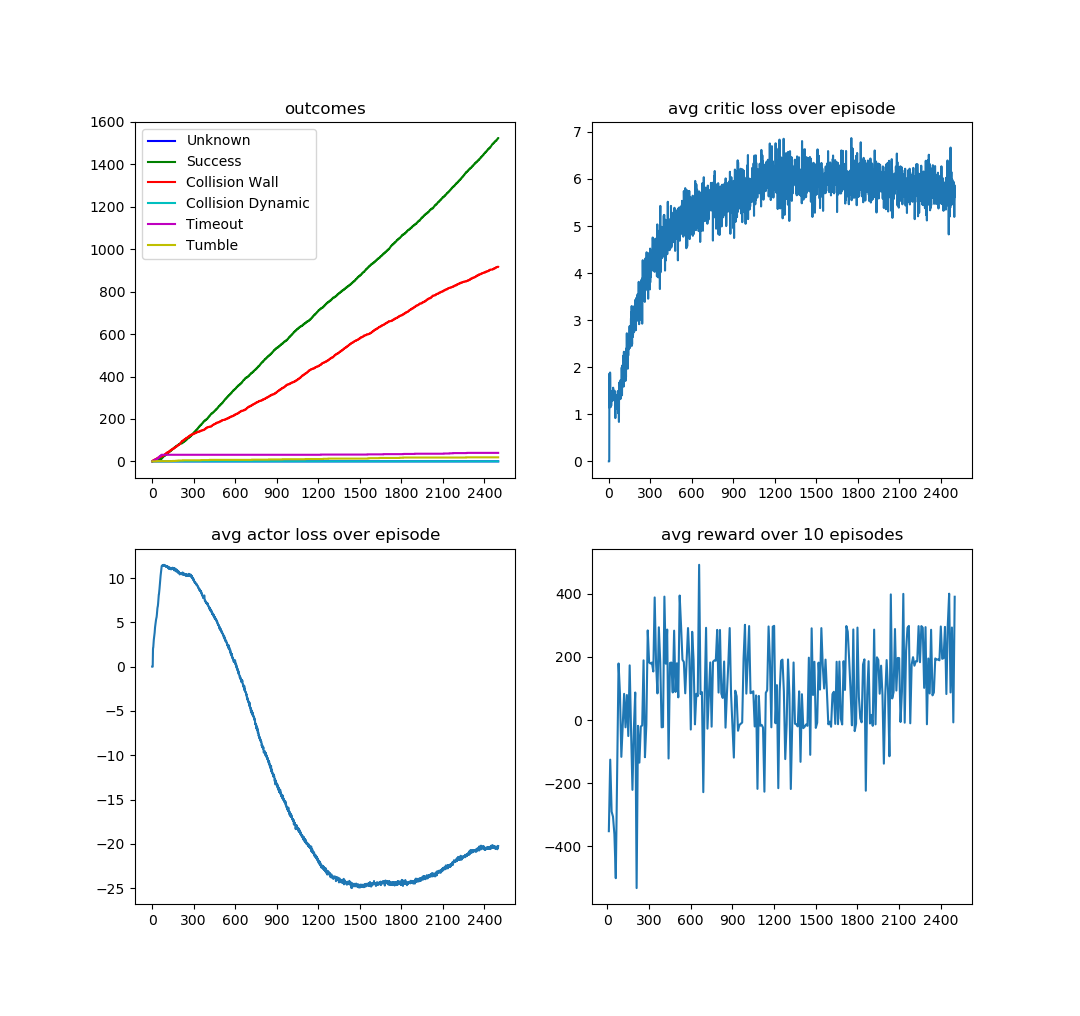
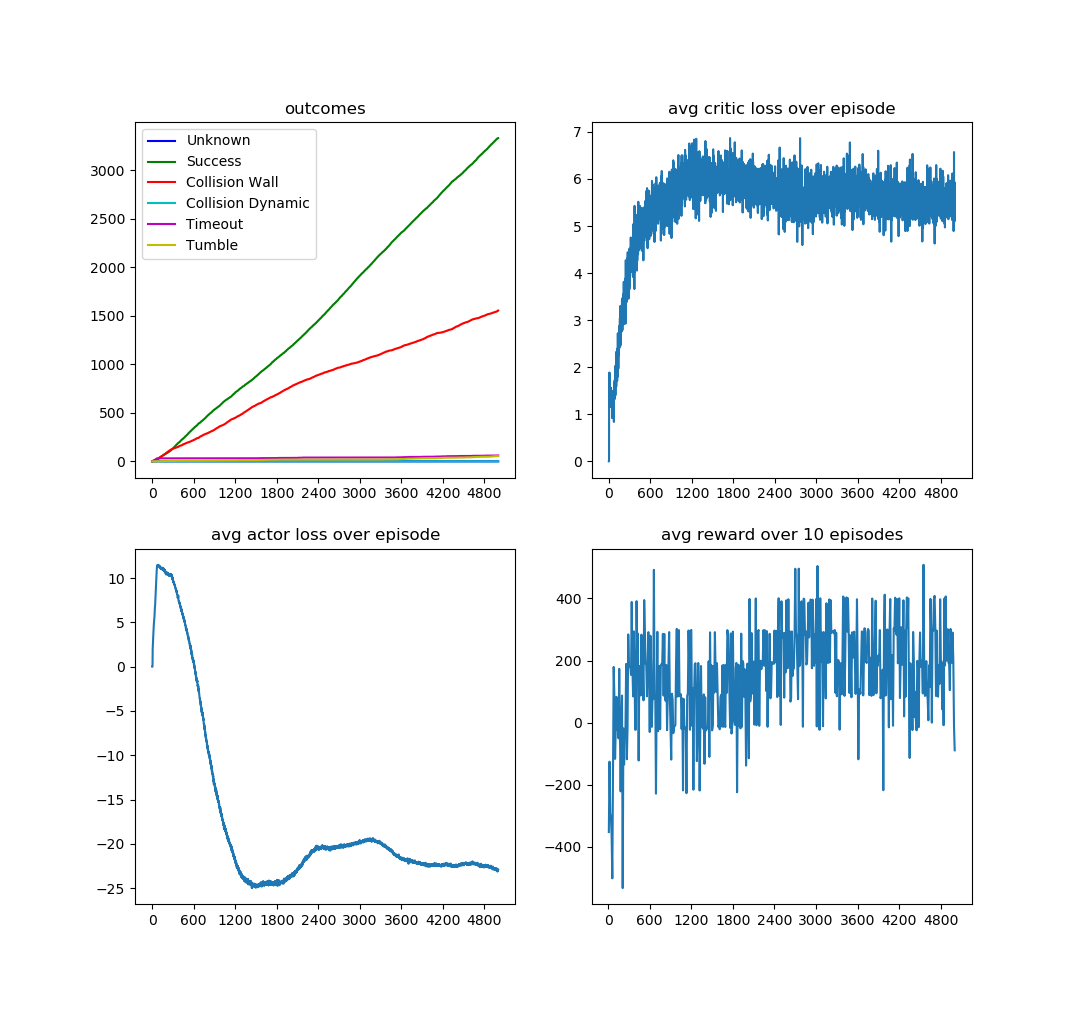
update_test_process

diff --git a/src/turtlebot3_drl/turtlebot3_drl/drl_gazebo/drl_gazebo.py b/src/turtlebot3_drl/turtlebot3_drl/drl_gazebo/drl_gazebo.py
@@ -21,6 +21,7 @@ import random
 import math
 import numpy
 import time
+import sys
 
 from gazebo_msgs.srv import DeleteEntity, SpawnEntity
 from std_srvs.srv import Empty
@@ -37,7 +38,7 @@ from ..common.settings import ENABLE_TRUE_RANDOM_GOALS
 
 NO_GOAL_SPAWN_MARGIN = 0.3 # meters away from any wall
 class DRLGazebo(Node):
-    def __init__(self):
+    def __init__(self, train):
         super().__init__('drl_gazebo')
 
         """************************************************************
@@ -50,6 +51,7 @@ class DRLGazebo(Node):
         self.entity_path = os.path.join(self.entity_dir_path, 'model.sdf')
         self.entity = open(self.entity_path, 'r').read()
         self.entity_name = 'goal'
+        self.train = train
 
         with open(os.getenv('DRLNAV_BASE_PATH') + '/tmp/drlnav_current_stage.txt', 'r') as f:
             self.stage = int(f.read())
@@ -185,7 +187,11 @@ class DRLGazebo(Node):
         self.prev_x = self.goal_x
         self.prev_y = self.goal_y
         tries = 0
-        self.goal_x , self.goal_y = self.random_goals()
+        if self.train:
+            self.goal_x , self.goal_y = self.random_goals()
+        else:
+            self.goal_x = random.randrange(-65, 65) / 10.0
+            self.goal_y = random.randrange(-65, 65) / 10.0
         while not self.goal_is_valid(self.goal_x, self.goal_y):
             self.goal_x , self.goal_y = self.random_goals()
         tries += 1
@@ -312,13 +318,26 @@ class DRLGazebo(Node):
         return obstacle_coordinates
 
 
-def main():
+def main(args=sys.argv[1:]):
     rclpy.init()
-    drl_gazebo = DRLGazebo()
+    if args[0] == "1":
+        train = True
+    elif args[0] == "0":
+        train = False
+    drl_gazebo = DRLGazebo(train)
     rclpy.spin(drl_gazebo)
 
     drl_gazebo.destroy()
     rclpy.shutdown()
+
+def main_test(args=sys.argv[1:]):
+    args = ['0'] + args
+    main(args)
+
+def main_train(args=sys.argv[1:]):
+    args = ['1'] + args
+    main(args)
+
 
 if __name__ == '__main__':
     main()

diff --git a/src/turtlebot3_drl/turtlebot3_drl/drl_agent/drl_agent.py b/src/turtlebot3_drl/turtlebot3_drl/drl_agent/drl_agent.py
@@ -105,12 +105,17 @@ class DrlAgent(Node):
         if not self.real_robot:
             self.gazebo_pause = self.create_client(Empty, '/pause_physics')
             self.gazebo_unpause = self.create_client(Empty, '/unpause_physics')
-        self.process()
+        if self.training:
+            episode_num = 2000
+        else:
+            episode_num = 100
+        self.process(episode_num)
 
 
-    def process(self):
+    def process(self, episode_num):
         util.pause_simulation(self, self.real_robot)
-        while (True):
+        episode = 0
+        while episode < episode_num:
             util.wait_new_goal(self)
             episode_done = False
             step, reward_sum, loss_critic, loss_actor = 0, 0, 0, 0
@@ -171,6 +176,7 @@ class DrlAgent(Node):
             duration = time.perf_counter() - episode_start
 
             self.finish_episode(step, duration, outcome, distance_traveled, reward_sum, loss_critic, loss_actor)
+            episode += 1
 
     def finish_episode(self, step, eps_duration, outcome, dist_traveled, reward_sum, loss_critic, lost_actor):
             if self.total_steps < self.observe_steps:

diff --git a/test.py b/test.py
@@ -1,0 +1,30 @@
+import numpy as np
+
+# del_num = real_scan.shape[0] - 360
+# gap = real_scan.shape[0]//del_num
+
+# del_index = real_scan[np.arange(0,real_scan.shape[0],gap+1)]
+# print("left num", real_scan.shape[0] - del_index.shape[0])
+# del_1 = np.delete(real_scan, del_index)
+# del_num_2 = del_1.shape[0] - 360
+# del_index_2 = np.arange(0, del_1.shape[0])[np.random.randint(0, del_1.shape[0], del_num_2)]
+# outcomt = np.delete(del_1, del_index_2)
+# print(outcomt.shape[0])
+
+
+def filter_scan(real_scan):
+    length = real_scan.shape[0]
+    while length != 360:
+        del_num = length - 360
+        gap = length//del_num + 1
+        del_index = np.arange(0, length, gap)
+        outcome = np.delete(real_scan, del_index)
+        length = outcome.shape[0]
+        real_scan = outcome
+    return outcome
+
+for i in range(100):
+    real_scan = np.arange(0,np.random.randint(370,580))
+    outcome = filter_scan(real_scan)
+    if outcome.shape[0] != 360:
+        print("error", real_scan.shape[0])

diff --git a/src/turtlebot3_drl/setup.py b/src/turtlebot3_drl/setup.py
@@ -41,7 +41,8 @@ setup(
         'console_scripts': [
             'environment = turtlebot3_drl.drl_environment.drl_environment:main',
             'real_environment = turtlebot3_drl.drl_environment.drl_environment_real:main',
-            'gazebo_goals = turtlebot3_drl.drl_gazebo.drl_gazebo:main',
+            'gazebo_goals_train = turtlebot3_drl.drl_gazebo.drl_gazebo:main_train',
+            'gazebo_goals_test = turtlebot3_drl.drl_gazebo.drl_gazebo:main_test',
             'train_agent = turtlebot3_drl.drl_agent.drl_agent:main_train',
             'test_agent = turtlebot3_drl.drl_agent.drl_agent:main_test',
             'real_agent = turtlebot3_drl.drl_agent.drl_agent:main_real',

diff --git a/src/turtlebot3_drl/turtlebot3_drl/drl_environment/reward.py b/src/turtlebot3_drl/turtlebot3_drl/drl_environment/reward.py
@@ -163,7 +163,7 @@ def get_reward_D(succeed, state_tmp_list, goal_dist, goal_angle, min_obstacle_di
         r_vlinear_y = -2 * abs(vy)
         r_vlinear = r_vlinear_x + r_vlinear_y
 
-        reward = 0.1*r_yaw + 0.5*r_distance + 0.24*r_obstacle + 0.01*r_vlinear + 0.09*r_vangular + 0.01*r_acc + 0.05*r_scan
+        reward = 0.1*r_yaw + 0.5*r_distance + 0.24*r_obstacle + 0.01*r_vlinear + 0.09*r_vangular + 0.01*r_acc + 0.05*r_scan - 0.5
 
         if succeed == SUCCESS:
             reward += 500

diff --git a/util/plot_from_file.py b/util/plot_from_file.py
@@ -26,7 +26,7 @@ def main(args):
     plt.figure(figsize=(16,10))
     j = 0
     base_path = os.getenv('DRLNAV_BASE_PATH') + f"/src/{args.agent_name}/model/{args.file_path}/"
-    logfile = glob.glob(base_path + '/_train_*.txt')
+    logfile = glob.glob(base_path + '/_train_l*.txt')
     if len(logfile) != 1:
         print(f"ERROR: found less or more than 1 logfile for: {base_path}")
     df = pd.read_csv(logfile[0])
